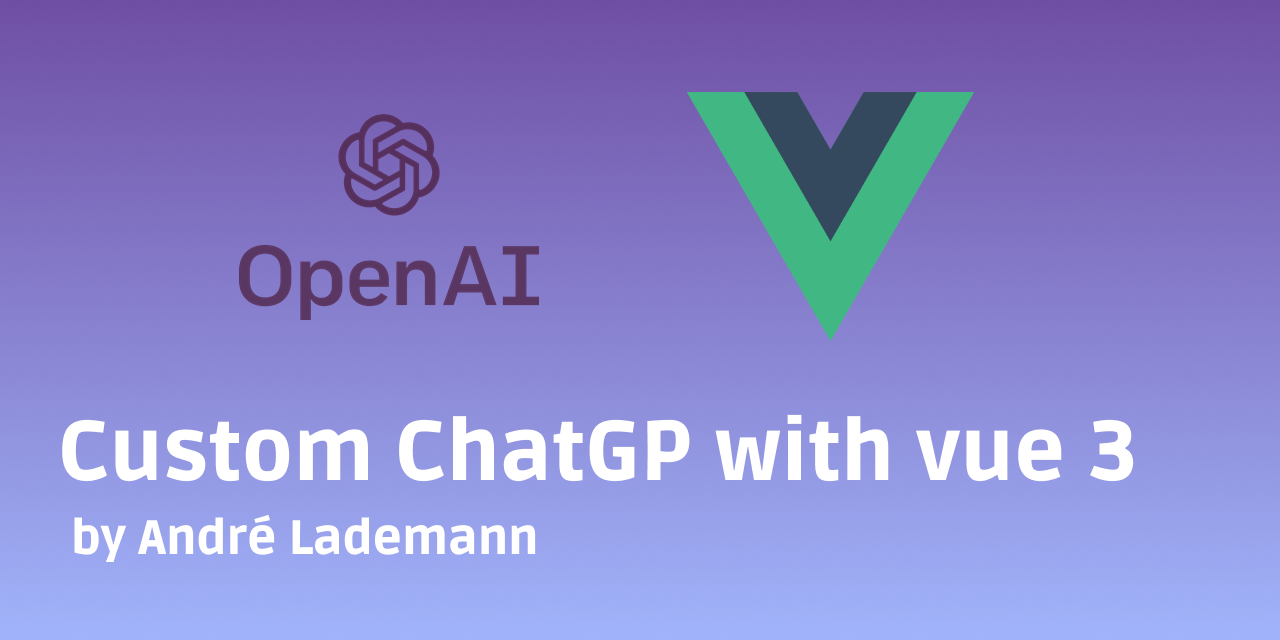
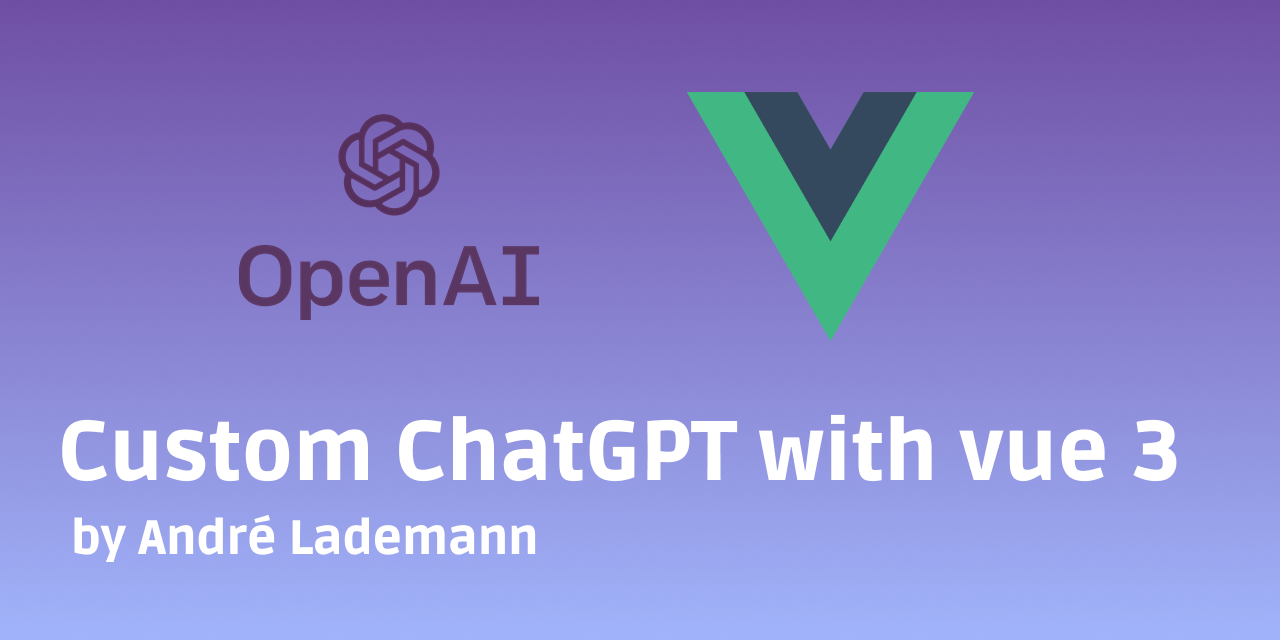
Fix typo3

Changed region(s): [[0.5312, 0.625, 0.9375, 0.75]]

diff --git a/index.html b/index.html
@@ -8,7 +8,7 @@
     <title>Vue3 + OpenAI example</title>
     <meta property="og:title" content="custom chatgp with vue" />
     <meta property="og:type" content="demo" />
-    <meta property="og:description" content="Custom chatgp with vue to illustrate how it could work" />
+    <meta property="og:description" content="Custom ChatGPT with vue to illustrate how it could work" />
     <meta property="og:url" content="https://vergissberlin.github.io/example-openai-vuejs/" />
     <meta property="og:image" content="https://vergissberlin.github.io/example-openai-vuejs/og.png" />
     <script src="https://cdn.tailwindcss.com"></script>
